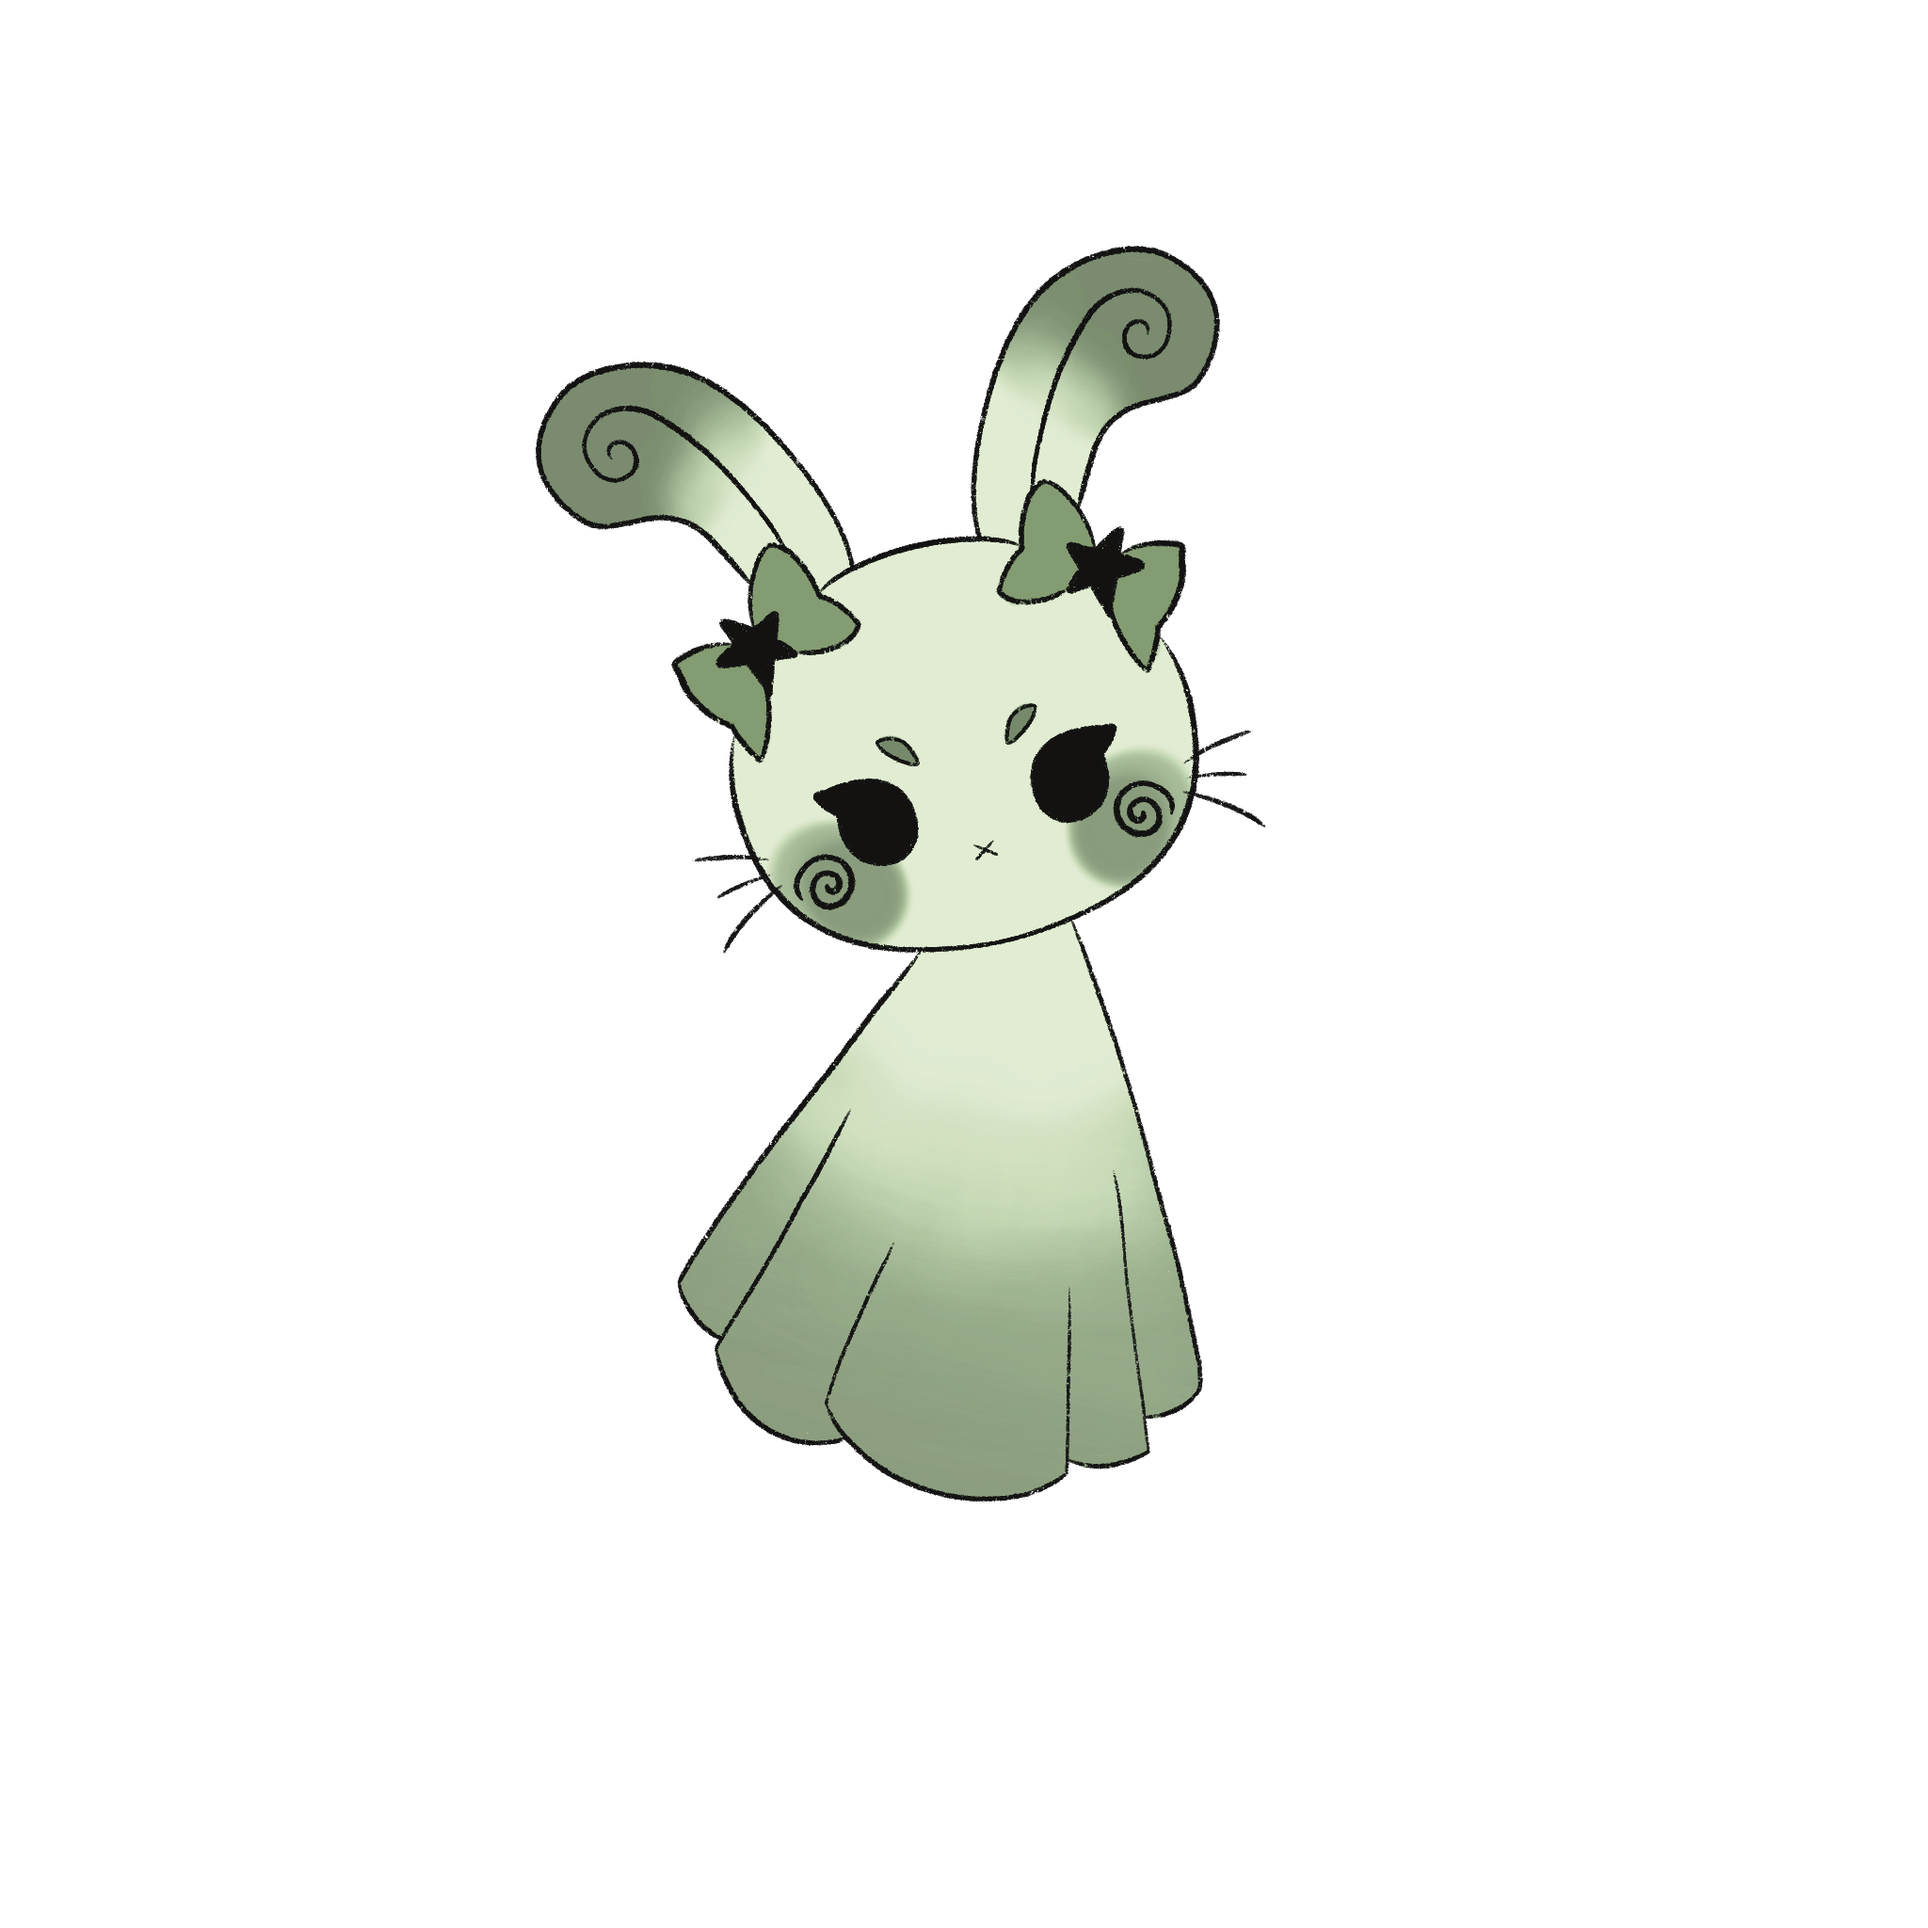
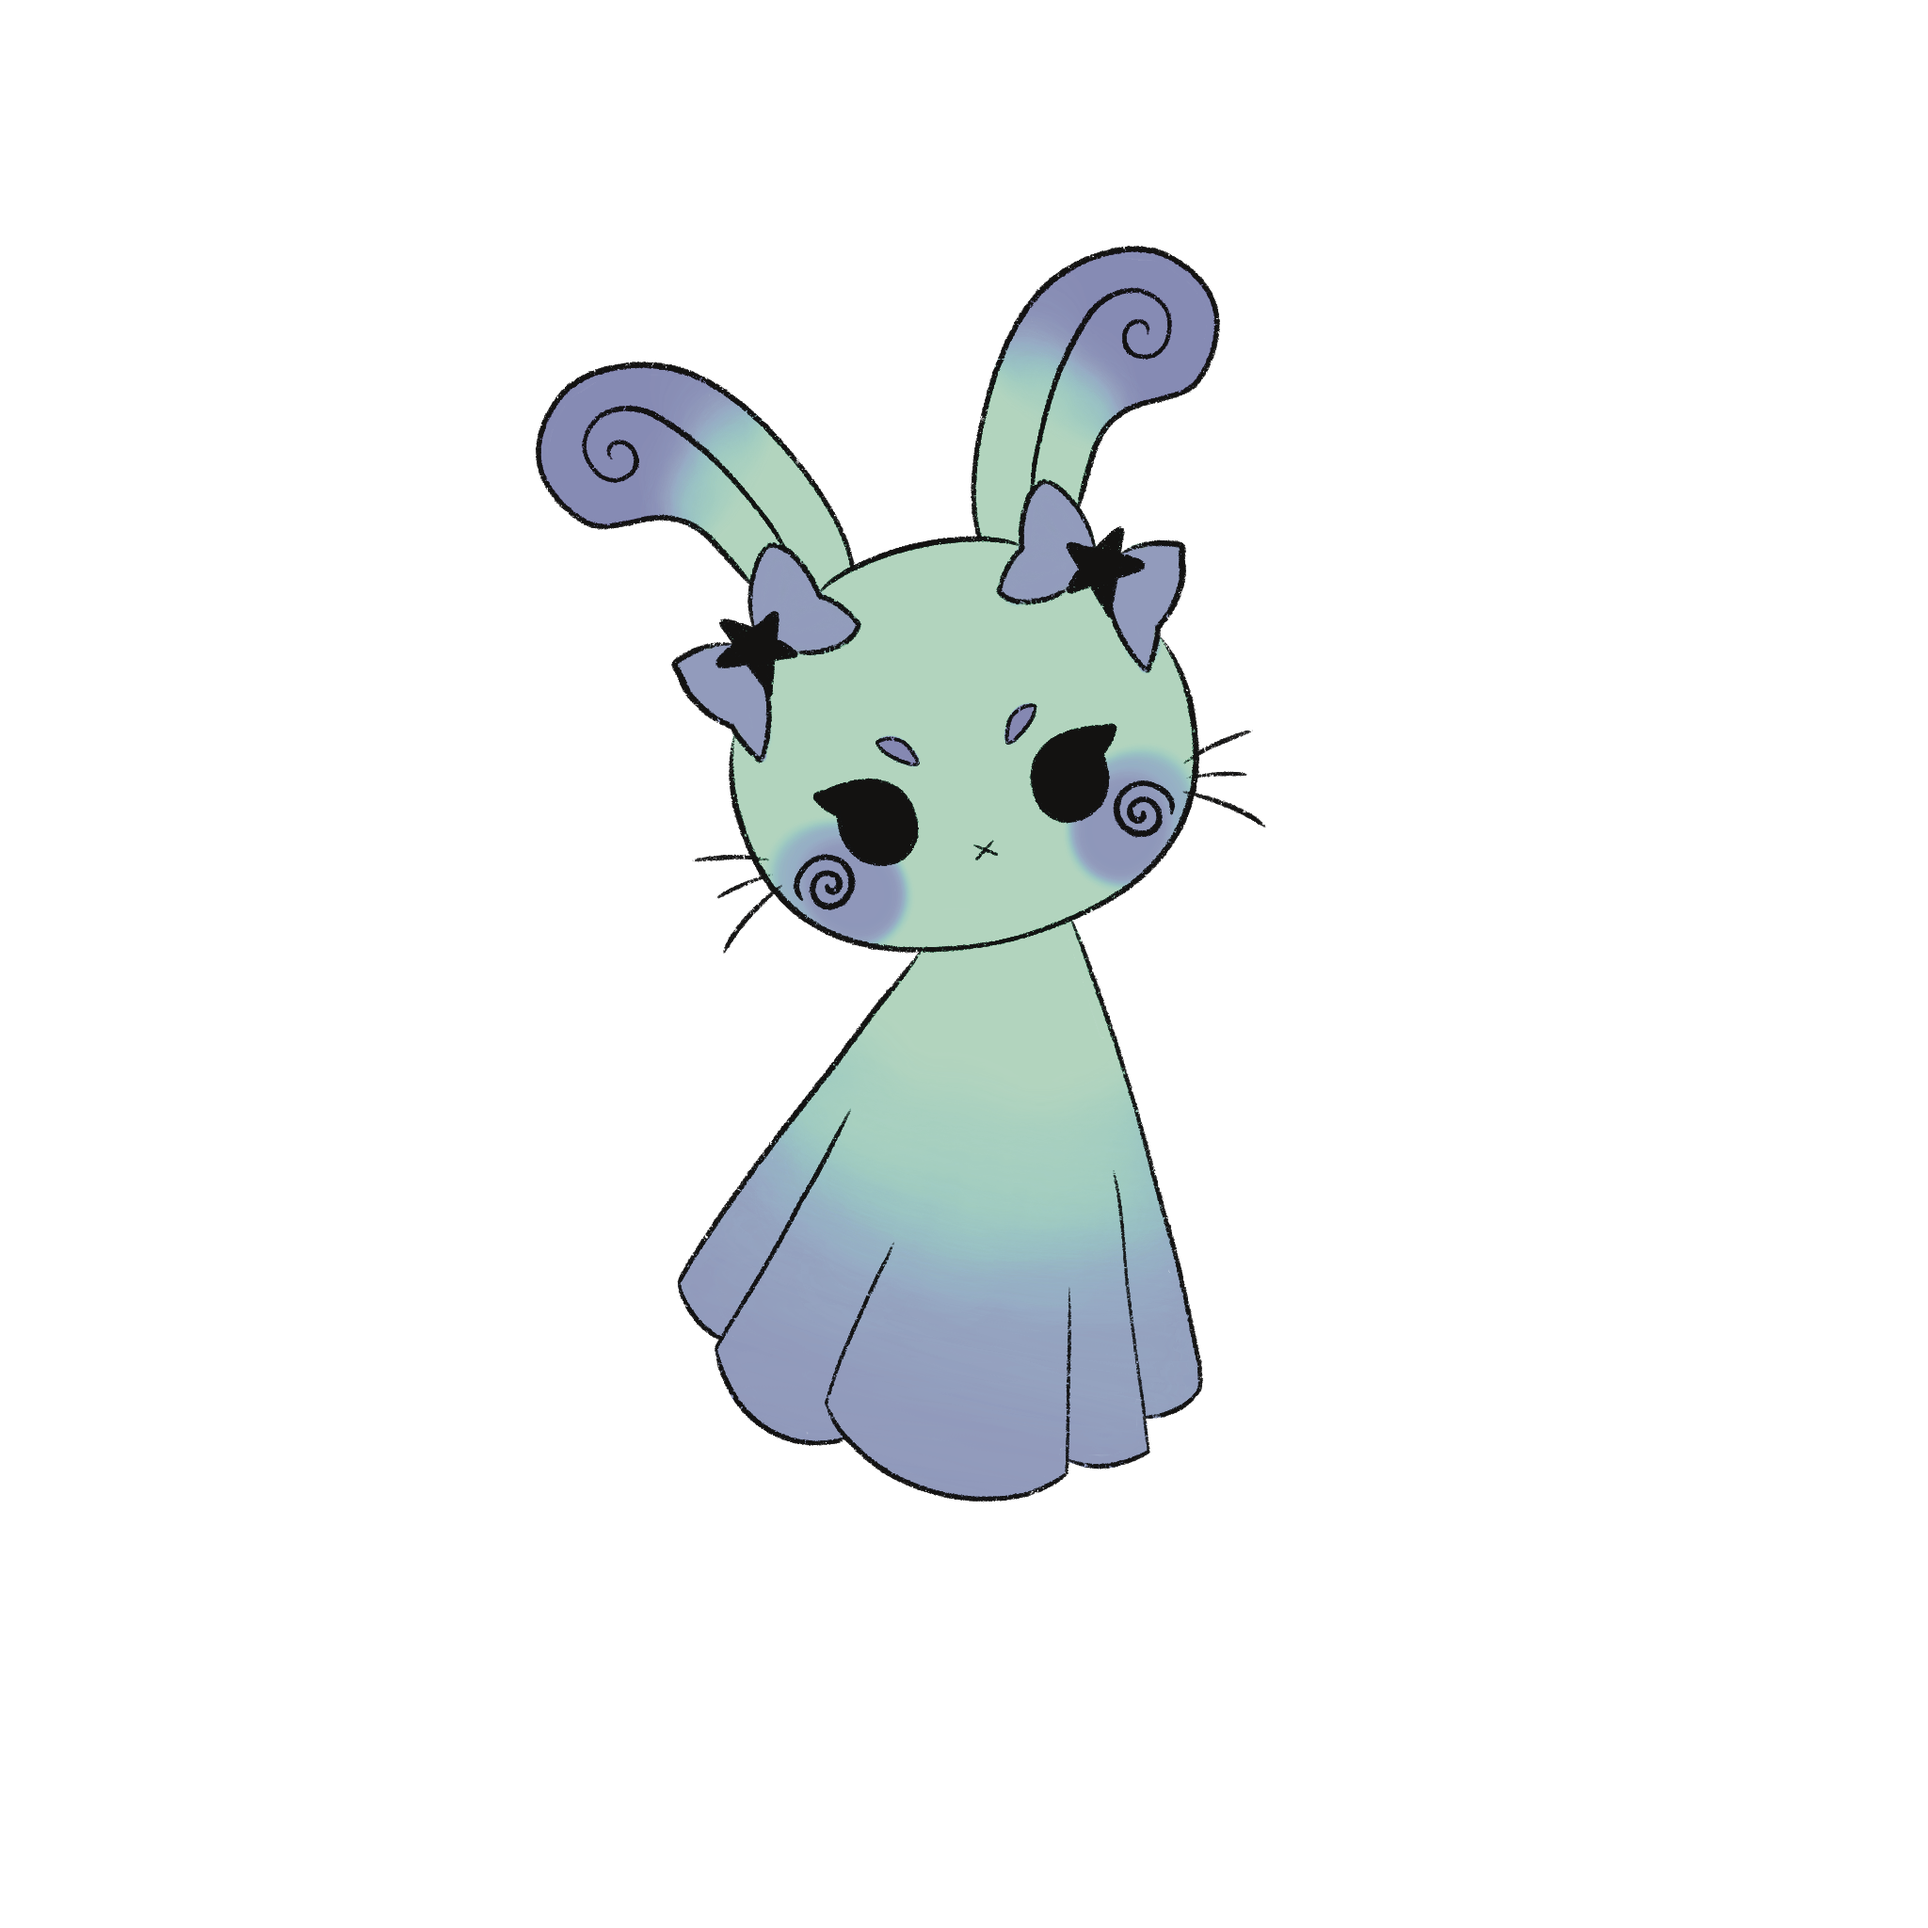
lade till alla bilder på stickers och commission bilden med priser

Changed region(s): [[0.2812, 0.125, 0.6562, 0.7812]]

diff --git a/html/shop.html b/html/shop.html
@@ -29,10 +29,91 @@
         </nav>
     </header>
 
-    <!--main-->
     <main>
-        <h1>♡Utbud♡</h1>
+        <!--utbud sida-->
+        <section class="container">
+            <h1>Utbud ✨</h1>
+        </section>
 
+        <!--stickers-->
+        <section class="container">
+            <h2>Stickers</h2>
+
+            <article><img src="/images/bubblegum.PNG" alt="rosa kanin" width="200">
+                <p>bubblegum
+                    <br>
+                    30kr
+                </p>
+            </article>
+
+            <article>
+                <img src="/images/fizzy.PNG" alt="rosa och blå kanin" width="200">
+                <p>fizzy
+                    <br>
+                    30kr
+                </p>
+            </article>
+
+            <article>
+                <img src="/images/ivy.PNG" alt="grön kanin" width="200">
+                <p>ivy
+                    <br>
+                    30kr
+                </p>
+            </article>
+
+            <article>
+                <img src="/images/plum.PNG" alt="lilarosa kanin" width="200">
+                <p>plum
+                    <br>
+                    30kr
+                </p>
+            </article>
+
+            <article>
+                <img src="/images/matcha.png" alt="grönrosa kanin" width="200">
+                <p>matcha
+                    <br>
+                    30kr
+                </p>
+            </article>
+
+            <article>
+                <img src="/images/klover.PNG" alt="grönblå kanin" width="200">
+                <p>Klöver
+                    <br>
+                    30kr
+                </p>
+
+                <!--stickersheets-->
+                <section class="container">
+                    <h2>Stickersheets</h2>
+                    <article>
+                        <img src="/images/colorstickersheet.JPG" alt="pastellfärgad stickersheet med nio kaniner"
+                            width="200">
+                        <p>bunny stickersheet
+                            <br>
+                            120kr
+                        </p>
+                    </article>
+
+                    <!--commissions-->
+                    <section class="container">
+                        <h2>Commissions</h2>
+
+                        <img src="/images/commissions.PNG"
+                            alt="pastell färgad tjej men grönt hår och rosa klänning med commission priser" width="200">
+
+                        <p>Vill du ha något personligt?
+                            <br>
+                            Beställ en illustration som skapas utifrån dina idéer och önskemål.
+                            <br>
+                            Välj mellan icon, halfbody och fullbody.
+                        </p>
+
+                        <a class="button-com" href="contact.html#contactform">
+                            Gör en förfrågan </a>
+                    </section>
     </main>
 
     <footer>
@@ -57,7 +138,7 @@
                 <li><a href="contact.html">Kontakt</a></li>
             </ul>
         </div>
-        
+
         <!--copyright-->
         <p>© 2026 bunnyblush studio</p>
     </footer>
